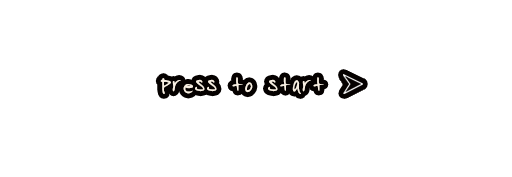
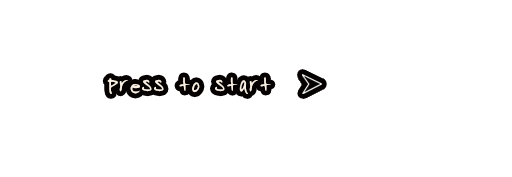
completed basic functions

Changed region(s): [[0.1875, 0.3955, 0.7188, 0.565]]

diff --git a/pygame_smack_the_boss.py b/pygame_smack_the_boss.py
@@ -94,121 +94,179 @@ class Boss4(Boss):
 def main():
     global play_again, level_counter
     play_again = False
-    # declare the size of the canvas
-    background_image = pygame.image.load('images/background.png')
+    end_condition = ""
 
+    background_image = pygame.image.load('images/background.png')
     x,y,width,height = background_image.get_rect()
 
     pygame.init()
     screen = pygame.display.set_mode((width, height))
     pygame.display.set_caption('Smack the boss')
     clock = pygame.time.Clock()
-    leveltick = pygame.time.get_ticks()
-    tick = clock.tick()
 
     game_music = pygame.mixer.Sound('sounds/music.wav')
 
-    characters = []
+    start_banner_image = pygame.image.load('images/start_banner.png').convert_alpha()
+    start_button_image = pygame.image.load('images/start_button.png').convert_alpha()
+    level_complete_banner_image = pygame.image.load('images/level_complete_banner.png').convert_alpha()
+    exit_image = pygame.image.load('images/exit.png').convert_alpha()
 
-    num_boss1 = 2
-    boss1s = []
-    boss1_image = pygame.image.load('images/boss1.png').convert_alpha()
-    for i in xrange(num_boss1):
-        boss1 = Boss1(boss1_image,screen,characters)
-        characters.append(boss1)
-        boss1s.append(boss1)
-
-
-    num_boss2 = 2
-    boss2s = []
-    boss2_image = pygame.image.load('images/boss2.png').convert_alpha()
-    for i in xrange(num_boss2):
-        boss2 = Boss2(boss2_image,screen,characters)
-        characters.append(boss2)
-        boss2s.append(boss2)
-
-    num_boss3 = 2
-    boss3s = []
-    boss3_image = pygame.image.load('images/boss3.png').convert_alpha()
-    for i in xrange(num_boss3):
-        boss3 = Boss3(boss3_image,screen,characters)
-        characters.append(boss3)
-        boss3s.append(boss3)
-
-    num_boss4 = 2
-    boss4s = []
-    boss4_image = pygame.image.load('images/boss4.png').convert_alpha()
-    for i in xrange(num_boss4):
-        boss4 = Boss4(boss4_image,screen,characters)
-        characters.append(boss4)
-        boss4s.append(boss4)
-
-    stop_game = False
-    end_condition = ''
+    quit_game = False
+    start = False
+    next_level = False
     game_music.play(-1)
     font = pygame.font.Font(None, 30)
-    level_text = font.render('Level %d' % level_counter, True, (0, 0, 0), (255,255,255))
 
-    while not stop_game:
-        for event in pygame.event.get():
-            if event.type == pygame.QUIT:
-                stop_game = True
-                quit_game = True
-            if event.type == pygame.MOUSEBUTTONDOWN:
-                for i in range(len(boss1s)):
-                    if event.pos[0] in range(boss1s[i].get_location()[0], boss1s[i].get_location()[0]+boss1s[i].dimensions[2]) and event.pos[1] in range(boss1s[i].get_location()[1], boss1s[i].get_location()[1]+boss1.dimensions[3]):
-                        num_boss1 -= 1
-                        characters.remove(boss1s[i])
-                        boss1s.remove(boss1s[i])
+
+    while quit_game == False:
+        while start == False and quit_game == False:
+
+            tick = pygame.time.get_ticks()
+
+            for event in pygame.event.get():
+                if event.type == pygame.QUIT:
+                    stop_game = True
+                    quit_game = True
+                if event.type == pygame.MOUSEBUTTONDOWN:
+                    if event.pos[0] in range(350, 450) and event.pos[1] in range(285, 400):
+                        start = True
+                    if event.pos[0] in range(405, 475) and event.pos[1] in range(25, 50):
+                        quit_game = True
+
+            screen.blit(background_image, (0,0))
+            screen.blit(exit_image, (405, 25))
+            screen.blit(start_banner_image, (0, 235))
+            if tick/200 % 2 == 0:
+                screen.blit(start_button_image, (350, 260))
+            else:
+                screen.blit(start_button_image, (350, 285))
+            pygame.display.update()
+
+        characters = []
+
+        num_boss1 = 1 + level_counter - 1
+        boss1s = []
+        boss1_image = pygame.image.load('images/boss1.png').convert_alpha()
+        for i in xrange(num_boss1):
+            boss1 = Boss1(boss1_image,screen,characters)
+            characters.append(boss1)
+            boss1s.append(boss1)
+
+
+        num_boss2 = 1 + level_counter - 1
+        boss2s = []
+        boss2_image = pygame.image.load('images/boss2.png').convert_alpha()
+        for i in xrange(num_boss2):
+            boss2 = Boss2(boss2_image,screen,characters)
+            characters.append(boss2)
+            boss2s.append(boss2)
+
+        num_boss3 = 1 + level_counter - 1
+        boss3s = []
+        boss3_image = pygame.image.load('images/boss3.png').convert_alpha()
+        for i in xrange(num_boss3):
+            boss3 = Boss3(boss3_image,screen,characters)
+            characters.append(boss3)
+            boss3s.append(boss3)
+
+        num_boss4 = 1 + level_counter - 1
+        boss4s = []
+        boss4_image = pygame.image.load('images/boss4.png').convert_alpha()
+        for i in xrange(num_boss4):
+            boss4 = Boss4(boss4_image,screen,characters)
+            characters.append(boss4)
+            boss4s.append(boss4)
+
+        while start == True and quit_game == False:
+            next_level = False
+            tick = pygame.time.get_ticks()
+
+            for event in pygame.event.get():
+                if event.type == pygame.QUIT:
+                    stop_game = True
+                    quit_game = True
+                if event.type == pygame.MOUSEBUTTONDOWN:
+                    for i in range(len(boss1s)):
+                        if event.pos[0] in range(boss1s[i].get_location()[0], boss1s[i].get_location()[0]+boss1s[i].dimensions[2]) and event.pos[1] in range(boss1s[i].get_location()[1], boss1s[i].get_location()[1]+boss1.dimensions[3]):
+                            num_boss1 -= 1
+                            characters.remove(boss1s[i])
+                            boss1s.remove(boss1s[i])
+                            break
+                    for i in range(len(boss2s)):
+                        if event.pos[0] in range(boss2s[i].get_location()[0], boss2s[i].get_location()[0]+boss2s[i].dimensions[2]) and event.pos[1] in range(boss2s[i].get_location()[1], boss2s[i].get_location()[1]+boss2s[i].dimensions[3]):
+                            boss2s[i].click_needed -= 1
+                            if boss2s[i].click_needed == 0:
+                                num_boss2 -= 1
+                                characters.remove(boss2s[i])
+                                boss2s.remove(boss2s[i])
+                            break
+                    for i in range(len(boss3s)):
+                        if event.pos[0] in range(boss3s[i].get_location()[0], boss3s[i].get_location()[0]+boss3s[i].dimensions[2]) and event.pos[1] in range(boss3s[i].get_location()[1], boss3s[i].get_location()[1]+boss3s[i].dimensions[3]):
+                            boss3s[i].click_needed -= 1
+                            if boss3s[i].click_needed == 0:
+                                num_boss3 -= 1
+                                characters.remove(boss3s[i])
+                                boss3s.remove(boss3s[i])
+                            break
+                    for i in range(len(boss4s)):
+                        if event.pos[0] in range(boss4s[i].get_location()[0], boss4s[i].get_location()[0]+boss4s[i].dimensions[2]) and event.pos[1] in range(boss4s[i].get_location()[1], boss4s[i].get_location()[1]+boss4s[i].dimensions[3]):
+                            boss4s[i].click_needed -= 1
+                            if boss4s[i].click_needed == 0:
+                                num_boss4 -= 1
+                                characters.remove(boss4s[i])
+                                boss4s.remove(boss4s[i])
+                            break
+                    if event.pos[0] in range(405, 475) and event.pos[1] in range(25, 50):
+                        quit_game = True
+
+            screen.blit(background_image, (0,0))
+            screen.blit(exit_image, (405, 25))
+            level_text = font.render('Level %d' % level_counter, True, (0, 0, 0), (255,255,255))
+            screen.blit(level_text,(32,32))
+            for i in characters:
+                screen.blit(i.image, i.get_location())
+            pygame.display.update()
+
+            if num_boss1 <= 0 and num_boss2 <= 0 and num_boss3 <= 0 and num_boss4 <= 0:
+                sound = pygame.mixer.Sound('sounds/win.wav')
+                sound.play()
+                end_condition = 'win'
+                level_counter += 1
+                break
+            #else:
+            #    sound = pygame.mixer.Sound('sounds/lose.wav')
+            #    sound.play()
+            #    end_condition = 'lose'
+            #    level_counter = 1
+            #    break
+
+            game_music.stop()
+
+        while start == True and end_condition == 'win' and quit_game == False:
+            print "enter 3rd loop"
+            print "next level: ", next_level
+            tick = pygame.time.get_ticks()
+            for event in pygame.event.get():
+                if event.type == pygame.QUIT:
+                    quit_game = True
+                if event.type == pygame.MOUSEBUTTONDOWN:
+                    if event.pos[0] in range(350, 450) and event.pos[1] in range(285, 400):
+                        next_level = True
                         break
-                for i in range(len(boss2s)):
-                    if event.pos[0] in range(boss2s[i].get_location()[0], boss2s[i].get_location()[0]+boss2s[i].dimensions[2]) and event.pos[1] in range(boss2s[i].get_location()[1], boss2s[i].get_location()[1]+boss2s[i].dimensions[3]):
-                        boss2s[i].click_needed -= 1
-                        if boss2s[i].click_needed == 0:
-                            num_boss2 -= 1
-                            characters.remove(boss2s[i])
-                            boss2s.remove(boss2s[i])
-                        break
-                for i in range(len(boss3s)):
-                    if event.pos[0] in range(boss3s[i].get_location()[0], boss3s[i].get_location()[0]+boss3s[i].dimensions[2]) and event.pos[1] in range(boss3s[i].get_location()[1], boss3s[i].get_location()[1]+boss3s[i].dimensions[3]):
-                        boss3s[i].click_needed -= 1
-                        if boss3s[i].click_needed == 0:
-                            num_boss3 -= 1
-                            characters.remove(boss3s[i])
-                            boss3s.remove(boss3s[i])
-                        break
-                for i in range(len(boss4s)):
-                    if event.pos[0] in range(boss4s[i].get_location()[0], boss4s[i].get_location()[0]+boss4s[i].dimensions[2]) and event.pos[1] in range(boss4s[i].get_location()[1], boss4s[i].get_location()[1]+boss4s[i].dimensions[3]):
-                        boss4s[i].click_needed -= 1
-                        if boss4s[i].click_needed == 0:
-                            num_boss4 -= 1
-                            characters.remove(boss4s[i])
-                            boss4s.remove(boss4s[i])
-                        break
+                    if event.pos[0] in range(405, 475) and event.pos[1] in range(25, 50):
+                        quit_game = True
+            if next_level == True:
+                break
 
-        if num_boss1 <= 0 and num_boss2 <= 0 and num_boss3 <= 0 and num_boss4 <= 0:
-            sound = pygame.mixer.Sound('sounds/win.wav')
-            sound.play()
-            end_condition = 'win'
-        else:
-            sound = pygame.mixer.Sound('sounds/lose.wav')
-            sound.play()
-            end_condition = 'lose'
-
-        screen.blit(background_image, (0,0))
-
-        screen.blit(level_text,(32,32))
-        for i in characters:
-            screen.blit(i.image, i.get_location())
-
-        pygame.display.update()
-
-        game_music.stop()
-        if end_condition == 'win':
-            level_counter += 1
-        else:
-            level_counter = 1
-
+            screen.blit(background_image, (0,0))
+            screen.blit(exit_image, (405, 25))
+            if end_condition == 'win':
+                screen.blit(level_complete_banner_image, (0, 235))
+                if tick/200 % 2 == 0:
+                    screen.blit(start_button_image, (350, 300))
+                else:
+                    screen.blit(start_button_image, (350, 285))
+                pygame.display.update()
 
 """
         if tick > 2000:
